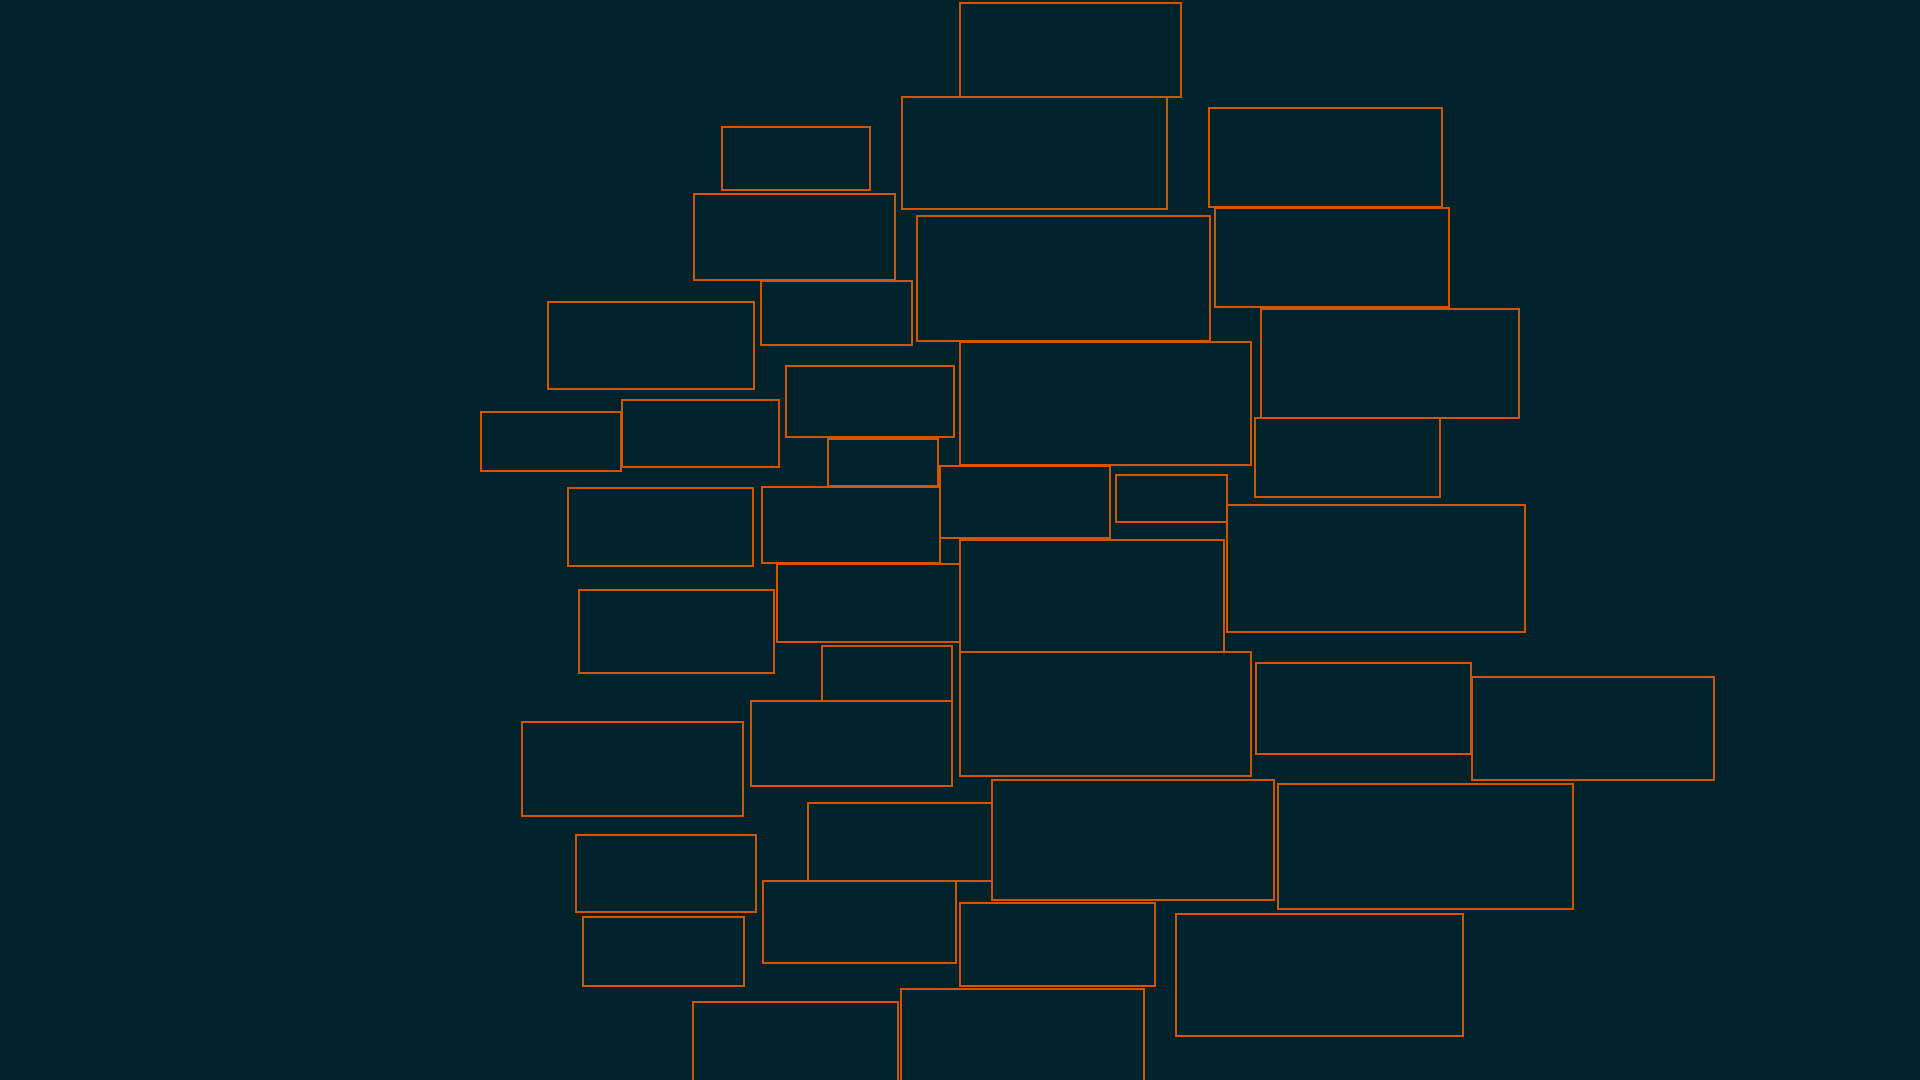
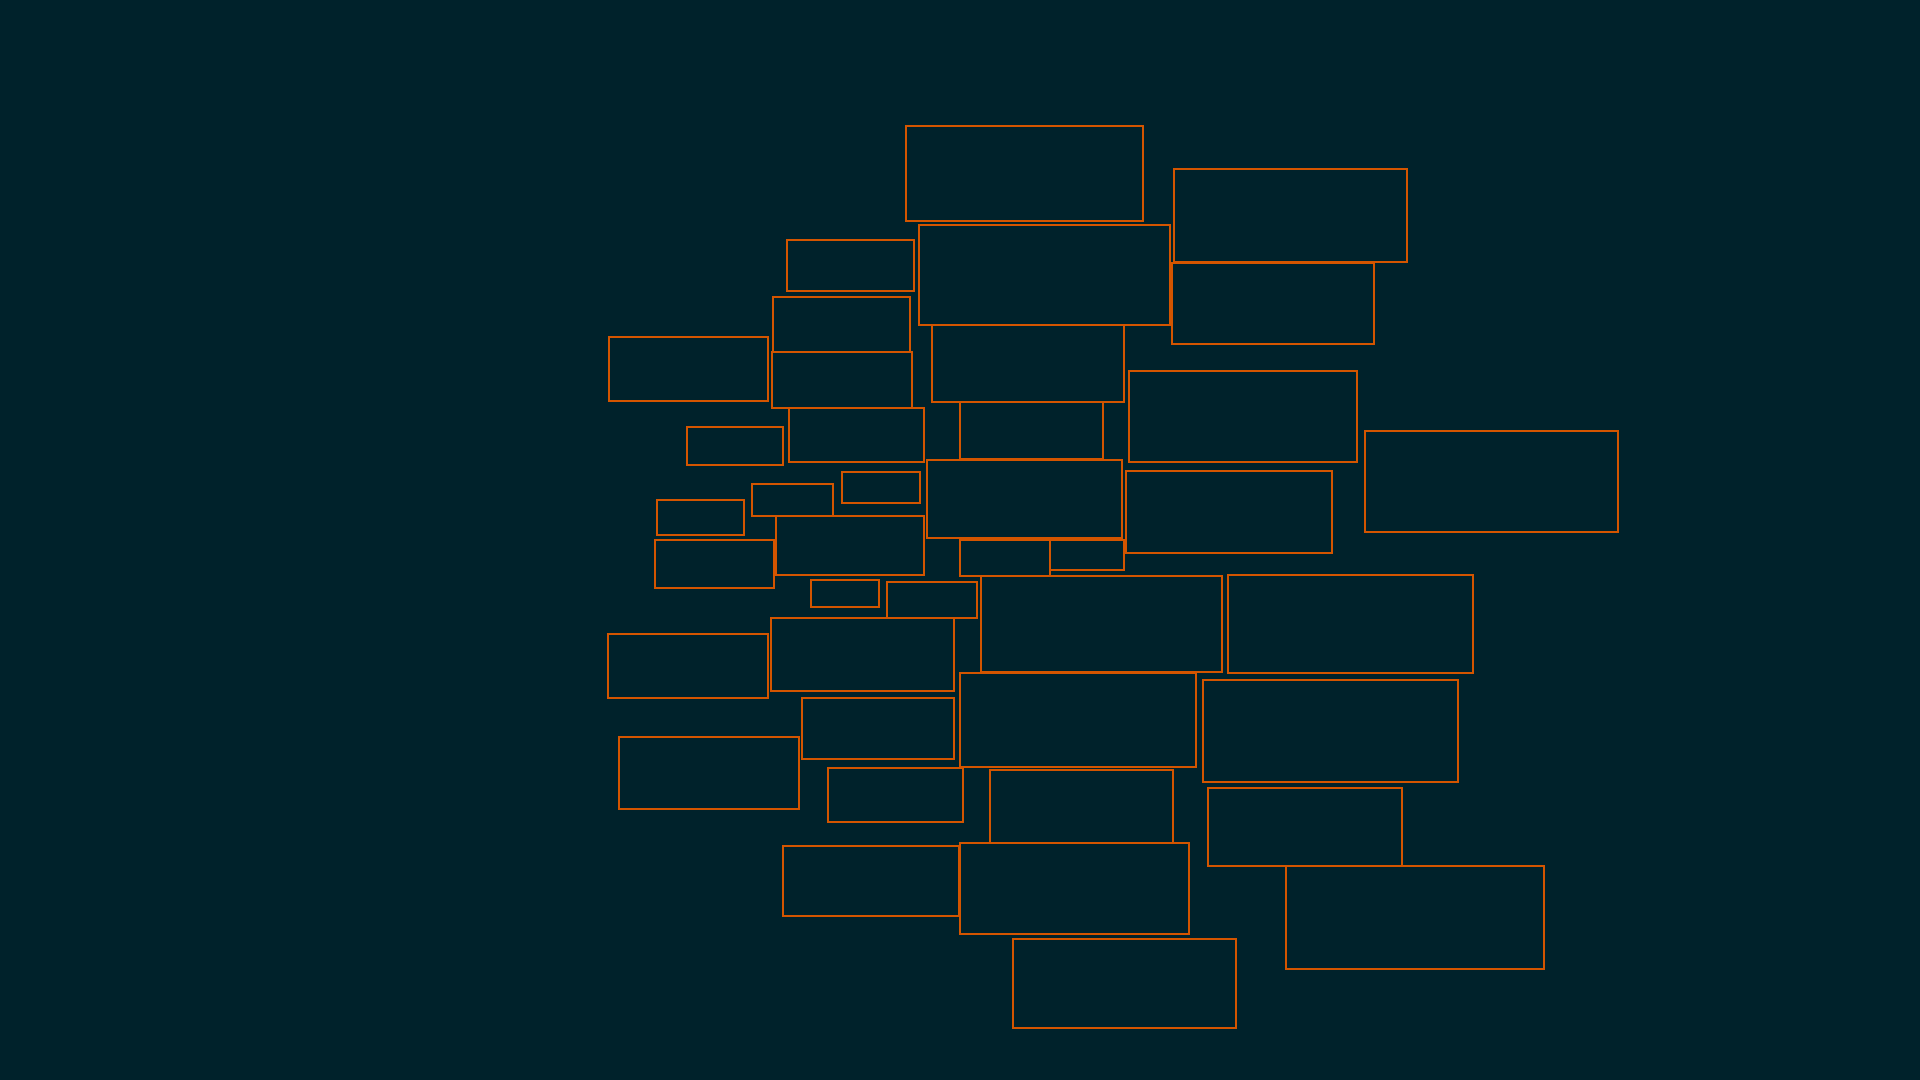
Добавил тест на плотность

diff --git a/cs/TagsCloudVisualizationTest/Geometry.cs b/cs/TagsCloudVisualizationTest/Geometry.cs
@@ -1,0 +1,67 @@
+using System.Drawing;
+
+namespace TagsCloudVisualizationTest;
+
+public static class Geometry
+{
+    public static double GetNormalizedAngleDifference(double angle1, double angle2)
+    {
+        var result = angle1 - angle2;
+        while (result <= -Math.PI)
+            result += 2 * Math.PI;
+        while (result > Math.PI)
+            result -= 2 * Math.PI;
+        return result;
+    }
+
+    public static double GetDistance(Point point1, Point point2)
+    {
+        var dx = point1.X - point2.X;
+        var dy = point1.Y - point2.Y;
+        return Math.Sqrt(dx * dx + dy * dy);
+    }
+
+    public static double GetAngle(Point point1, Point point2)
+    {
+        var dx = point1.X - point2.X;
+        var dy = point1.Y - point2.Y;
+        return Math.Atan2(dy, dx);
+    }
+
+    public static double FindMinRadius(List<Rectangle> rectangles, Point center)
+    {
+        var resultRadius = rectangles
+            .Select(rectangle => new List<Point>()
+            {
+                new Point(rectangle.Left, rectangle.Top),
+                new Point(rectangle.Right, rectangle.Top),
+                new Point(rectangle.Left, rectangle.Bottom),
+                new Point(rectangle.Right, rectangle.Bottom)
+            })
+            .Aggregate(0.0, (current, points) => points
+                .Select(point => Geometry.GetDistance(point, center))
+                .Prepend(current)
+                .Max());
+        return resultRadius;
+    }
+
+    public static bool AreRectanglesInsideCircle(List<Rectangle> rectangles, Point center, double radius)
+    {
+        return rectangles
+            .Select(rect => new List<Point>
+            {
+                new Point(rect.Left, rect.Top),
+                new Point(rect.Right, rect.Top),
+                new Point(rect.Left, rect.Bottom),
+                new Point(rect.Right, rect.Bottom)
+            })
+            .All(points => !points.Any(point => GetDistance(point, center) > radius));
+    }
+
+    public static double GetRectanglesPackingDensity(List<Rectangle> rectangles, double radius)
+    {
+        var rectangleTotalArea = (double)rectangles.Sum(rect => rect.Width * rect.Height);
+        var circleArea = Math.PI * radius * radius;
+        return rectangleTotalArea/circleArea;
+    }
+}

diff --git a/cs/TagsCloudVisualizationTest/SpiralPointGeneratorTest.cs b/cs/TagsCloudVisualizationTest/SpiralPointGeneratorTest.cs
@@ -1,5 +1,4 @@
 using System.Drawing;
-using TagsCloudVisualization;
 using FluentAssertions;
 using TagsCloudVisualization.PointGenerator;
 
@@ -47,10 +46,10 @@ public class SpiralPointGeneratorTest
 
         actualPoints.Should().HaveCountGreaterThan(1);
 
-        var prevDistance = GetDistance(actualPoints.First(), validCenter);
+        var prevDistance = Geometry.GetDistance(actualPoints.First(), validCenter);
         foreach (var point in actualPoints.Skip(1))
         {
-            var currentDistance = GetDistance(point, validCenter);
+            var currentDistance = Geometry.GetDistance(point, validCenter);
             currentDistance.Should().BeGreaterThanOrEqualTo(prevDistance);
             prevDistance = currentDistance;
         }
@@ -66,37 +65,13 @@ public class SpiralPointGeneratorTest
 
         actualPoints.Should().HaveCountGreaterThan(1);
 
-        var prevAngle = GetAngle(actualPoints.First(), validCenter);
+        var prevAngle = Geometry.GetAngle(actualPoints.First(), validCenter);
         foreach (var point in actualPoints.Skip(1))
         {
-            var currentAngle = GetAngle(point, validCenter);
-            var delta = GetNormalizedAngleDifference(currentAngle, prevAngle);
+            var currentAngle = Geometry.GetAngle(point, validCenter);
+            var delta = Geometry.GetNormalizedAngleDifference(currentAngle, prevAngle);
             delta.Should().BeGreaterThan(-1e-5);
             prevAngle = currentAngle;
         }
-    }
-
-    private static double GetNormalizedAngleDifference(double angle1, double angle2)
-    {
-        var result = angle1 - angle2;
-        while (result <= -Math.PI)
-            result += 2 * Math.PI;
-        while (result > Math.PI)
-            result -= 2 * Math.PI;
-        return result;
-    }
-
-    private static double GetDistance(Point point1, Point point2)
-    {
-        var dx = point1.X - point2.X;
-        var dy = point1.Y - point2.Y;
-        return Math.Sqrt(dx * dx + dy * dy);
-    }
-
-    private static double GetAngle(Point point1, Point point2)
-    {
-        var dx = point1.X - point2.X;
-        var dy = point1.Y - point2.Y;
-        return Math.Atan2(dy, dx);
     }
 }

diff --git a/cs/TagsCloudVisualizationTest/SpiralPointProviderTest.cs b/cs/TagsCloudVisualizationTest/SpiralPointProviderTest.cs
@@ -13,7 +13,7 @@ public class SpiralPointProviderTest
     public void Setup()
     {
         validCenter = new Point(1920 / 2, 1080 / 2);
-        validRectangleSize = new Size(20, 10);
+        validRectangleSize = new Size(50, 35);
     }
     
     [TestCase(-1)]
@@ -83,5 +83,33 @@ public class SpiralPointProviderTest
                     .Should().BeFalse($"rect #{i} should not intersect rect #{j}");
             }
         }
+    }
+
+    [Test]
+    public void FindMinRadius_ShouldReturnRadiusOfEnclosingCircle_WhenValidParameters()
+    {
+        var spiralPointProvider = new SpiralPointProvider(validCenter);
+        var rectangles = spiralPointProvider
+            .GetRandomSizedRectangles(100, validRectangleSize, 0.5)
+            .ToList();
+        
+        var circleRadius = Geometry.FindMinRadius(rectangles, validCenter);
+        
+        Geometry.AreRectanglesInsideCircle(rectangles, validCenter, circleRadius).Should().BeTrue();
+        Geometry.AreRectanglesInsideCircle(rectangles, validCenter, circleRadius-1).Should().BeFalse();
+    }
+    
+    [Test]
+    public void GetRandomSizedRectangles_ShouldEnsurePackingDensity_WhenValidParameters()
+    {
+        var spiralPointProvider = new SpiralPointProvider(validCenter);
+        var rectangles = spiralPointProvider
+            .GetRandomSizedRectangles(100, validRectangleSize, 0.5)
+            .ToList();
+        
+        var circleRadius = Geometry.FindMinRadius(rectangles, validCenter);
+        var packingDensity = Geometry.GetRectanglesPackingDensity(rectangles, circleRadius);
+        
+        packingDensity.Should().BeGreaterThan(0.4);
     }
 }

diff --git a/cs/TagsCloudVisualizationTest/CircularCloudLayouterTest.cs b/cs/TagsCloudVisualizationTest/CircularCloudLayouterTest.cs
@@ -19,6 +19,7 @@ public class CircularCloudLayouterTest
     public void CircularCloudLayouter_ShouldThrowException_WhenInvalidCenter(int centerX, int centerY)
     {
         var invalidCenter = new Point(centerX, centerY);
+        
         var act = () => new CircularCloudLayouter(invalidCenter);
 
         act.Should().Throw<ArgumentException>()
@@ -32,6 +33,7 @@ public class CircularCloudLayouterTest
     public void PutNextRectangle_ShouldThrowException_WhenInvalidRectangleSize(int rectangleWidth, int rectangleHeight)
     {
         var circularCloud = new CircularCloudLayouter(validCenter);
+        
         var act = () => circularCloud.PutNextRectangle(new Size(rectangleWidth, rectangleHeight));
 
         act.Should().Throw<ArgumentException>()

diff --git a/cs/TagsCloudVisualization/Program.cs b/cs/TagsCloudVisualization/Program.cs
@@ -10,11 +10,11 @@ public static class Program
     static void Main()
     {
         var imageCenter = new Point(1920/2, 1080/2);
-        var rectangleSize = new Size(200, 85);
+        var rectangleSize = new Size(200, 80);
         var imageSize = new Size(1920, 1080);
         
         var spiralPointProvider = new SpiralPointProvider(imageCenter);
-        var rectangles = spiralPointProvider.GetRandomSizedRectangles(40,rectangleSize, 0.5);
+        var rectangles = spiralPointProvider.GetRandomSizedRectangles(40,rectangleSize, 0.3);
         var visualizer = new TagCloudRenderer(imageSize);
         var image = visualizer.CreateRectangleCloud(rectangles);
         ImageSaver.SaveImage(image, "cloud.png");
